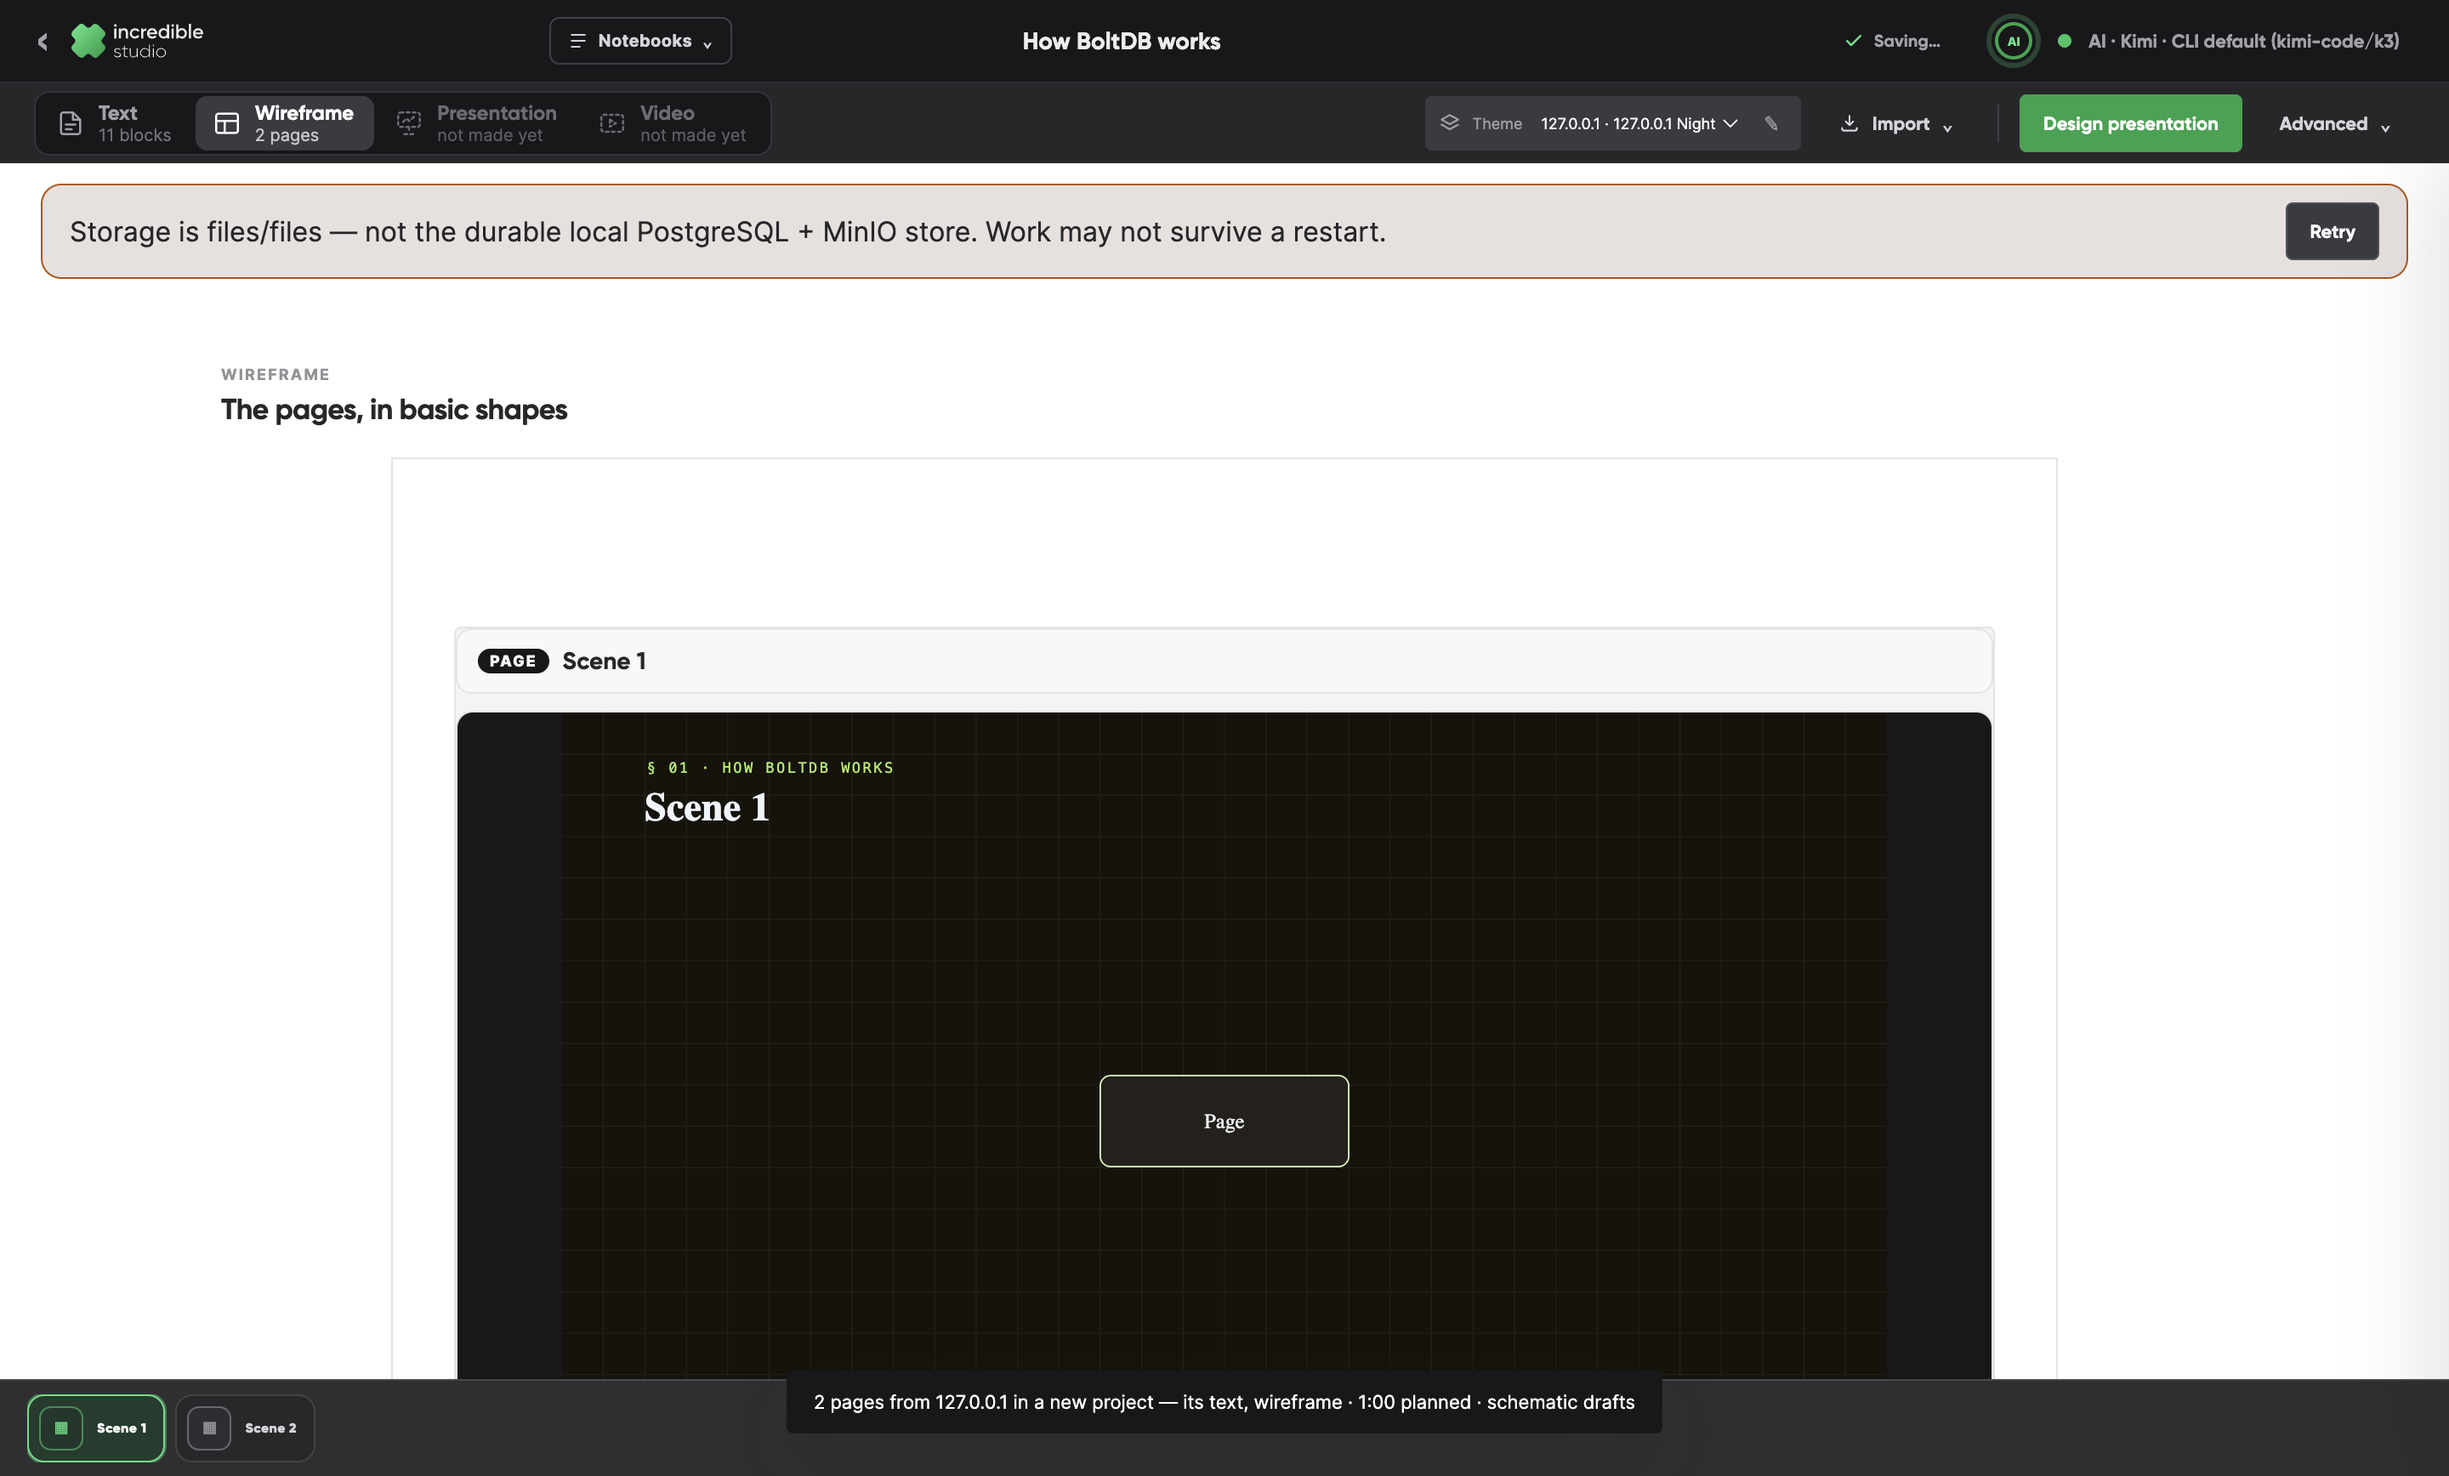
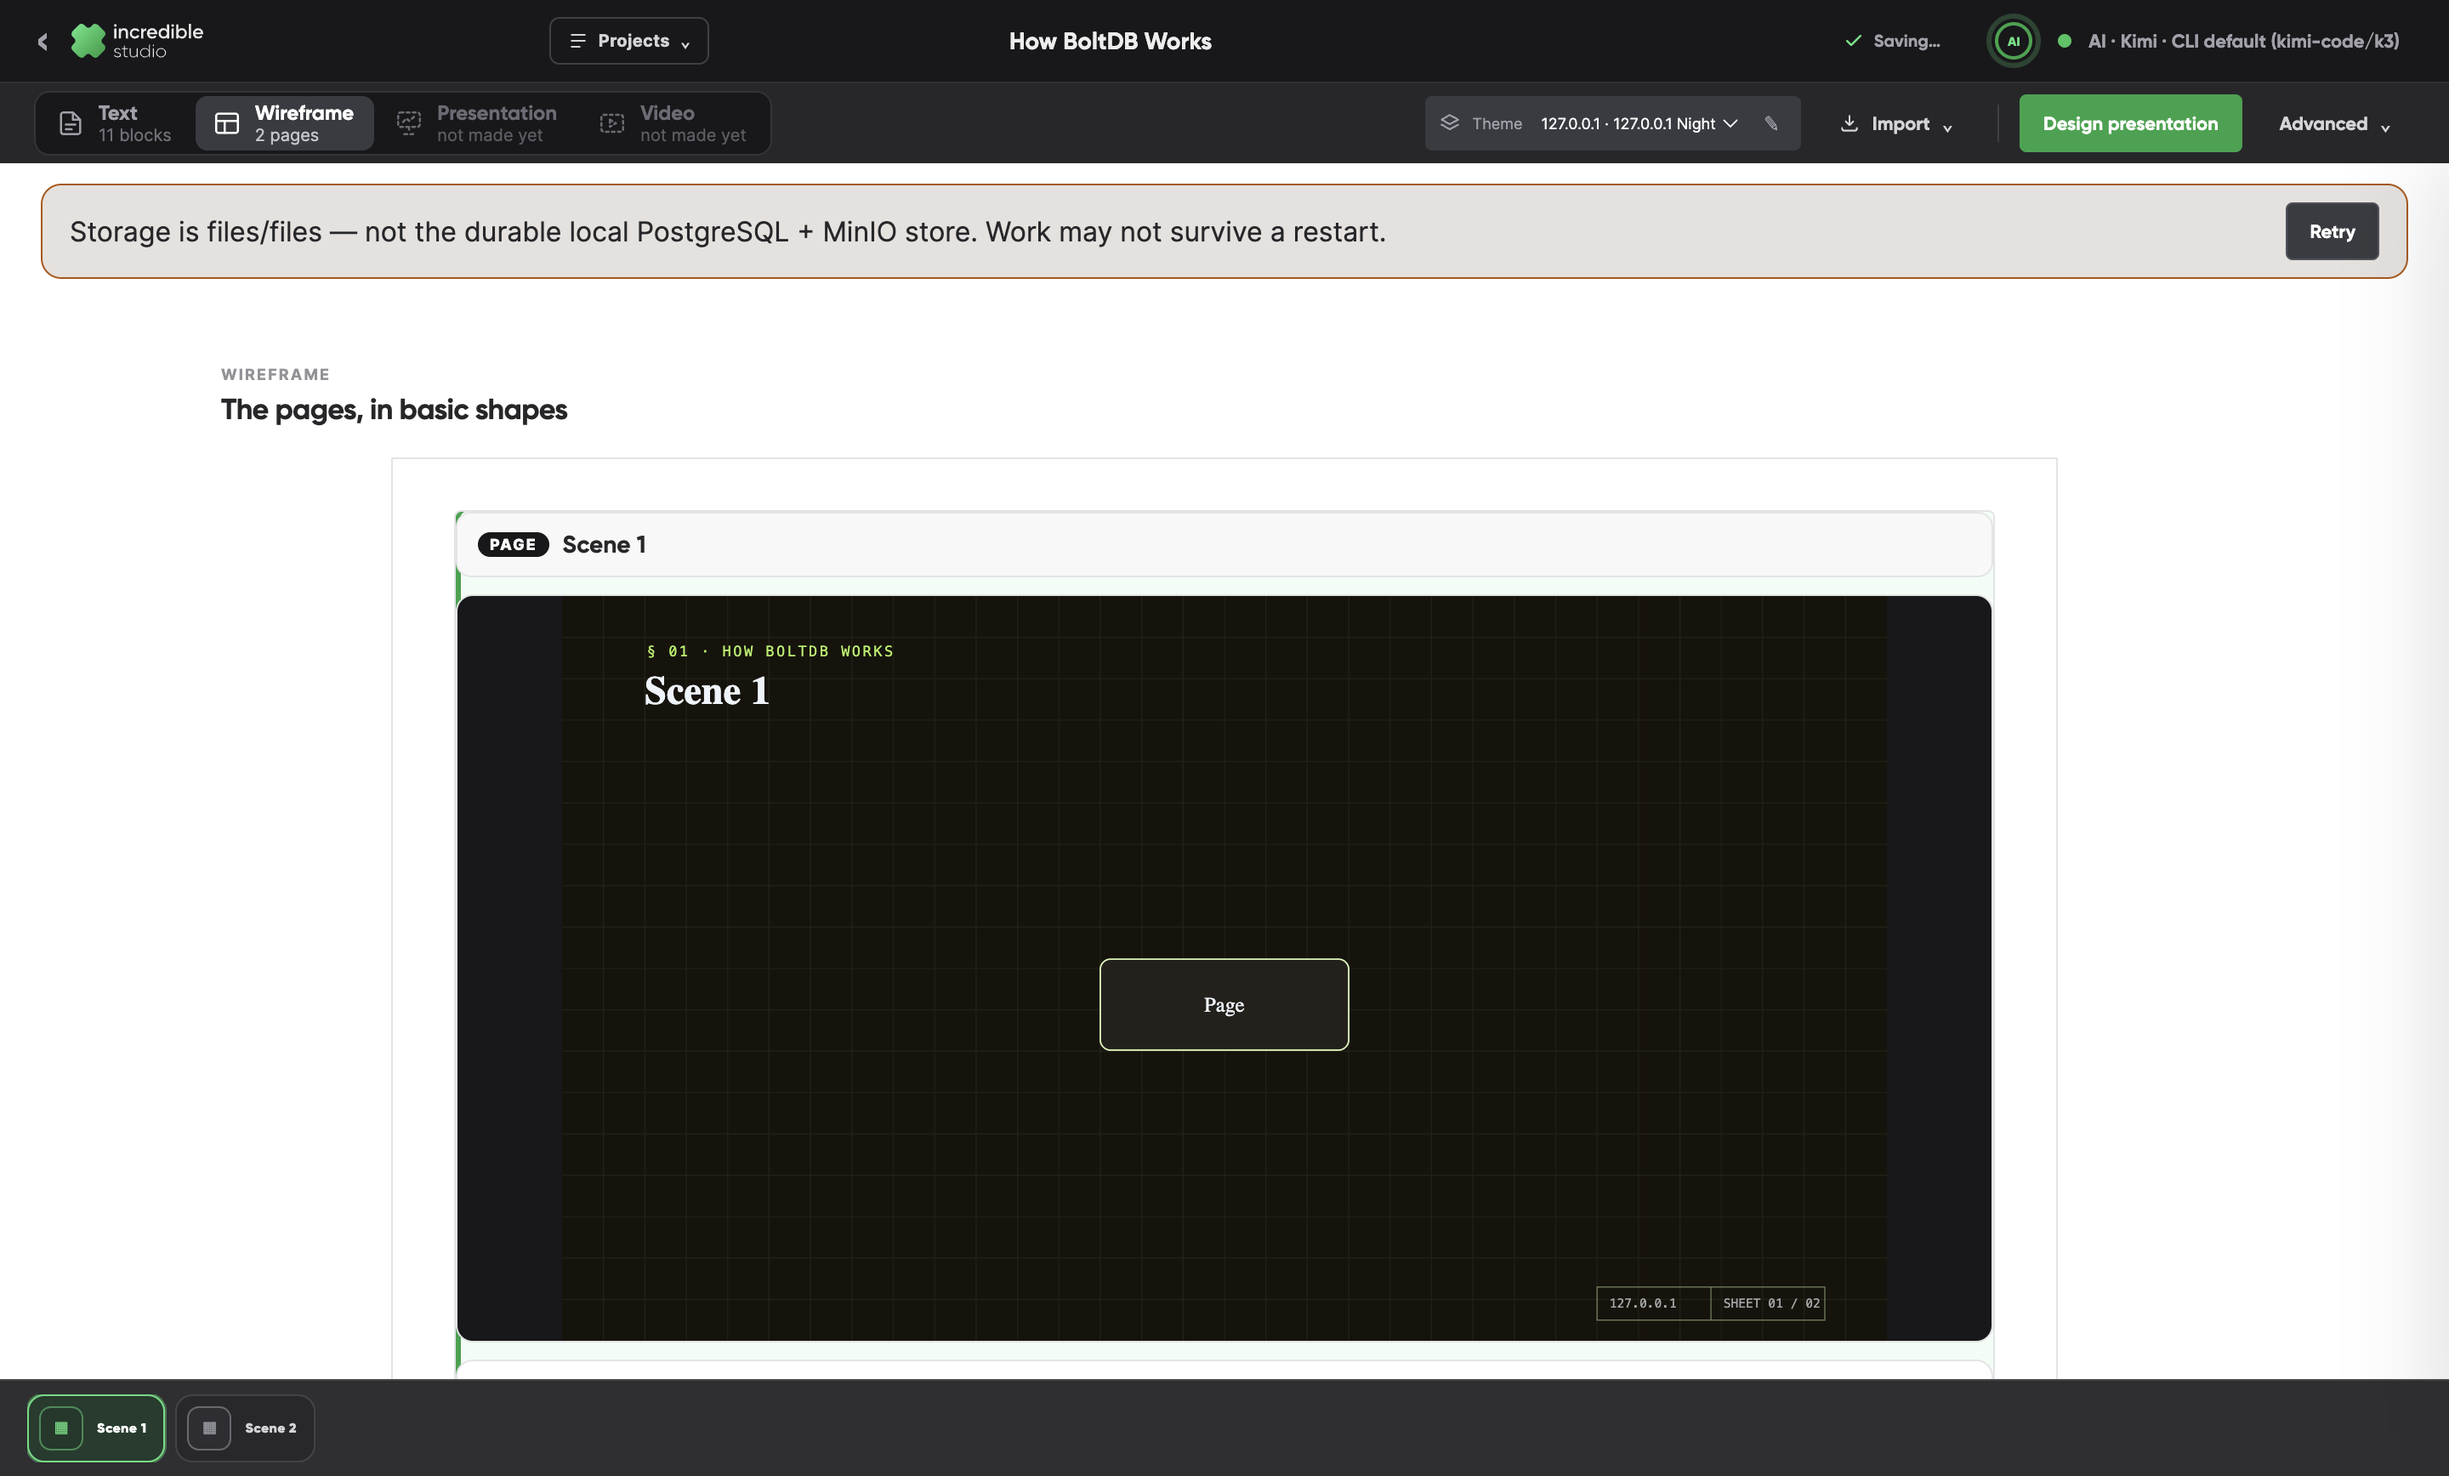
docs(reviews): the import opens the project at the brand
The BoltDB response now describes the short import: the project opens on
its text as soon as the brand is chosen, and its wireframe is made in the
background, saying so on its tab and in the notebook. B05 is answered by
it. The flow numbers of source-design-check follow its rewrite, and the
captures show the text while its wireframe is made, the wireframe, and a
presentation while it is designed and once it has landed.

diff --git a/docs/reviews/2026-09-26-boltdb-e2e-response.md b/docs/reviews/2026-09-26-boltdb-e2e-response.md
@@ -11,7 +11,7 @@ All thirteen findings are addressed on `claude/scene-review-loop`, one verified 
 
 After B04, the creator set the direction for the four-artifact proposal. A project is a container of notebooks — text, wireframe, presentation and video — each with its own tools and its own model, and an icon switch moves between them. That model is built and described below.
 
-B05 is fixed only in part, and the model has open work; both are listed under "Limits". Every proof below is a unit test or a scripted check in the desktop app, run on a throwaway store with stub harnesses. No page, plan, sketch or video was written by hand in a harness's place.
+B05's last piece and the model's open work are listed under "Limits". Every proof below is a unit test or a scripted check in the desktop app, run on a throwaway store with stub harnesses. No page, plan, sketch or video was written by hand in a harness's place.
 
 ## Findings
 
@@ -20,18 +20,18 @@ B05 is fixed only in part, and the model has open work; both are listed under "L
 | B10 | Export keeps the old slide clock and adds a blank tail | `d33d95fb` | `produced-scene.test.ts`; `production-check` (a produced scene exports at 10.400 s against its 10.394 s render) |
 | B09 | Publish from Scenes leaves a black stage and inaccessible controls | `b64a8c24` | `production-check`, `scene-review-check`, `export-check` (one scene exported from Scenes: 4.400 s against 4.394 s) |
 | B01 | Importing a new base leaves the previous video's workspace active | `38eb1486` | `source-destination-check`, flow D |
-| B06 | Finished rich slides do not reach the saved base while Video is open | `64fbe07e` | `page-landing.test.ts`; `source-design-check`, flows 7 and 8 (landing with only the video open, and after a restart) |
+| B06 | Finished rich slides do not reach the saved base while Video is open | `64fbe07e` | `page-landing.test.ts`; `source-design-check`, flows 4 and 5 (landing with only the video open, and after a restart) |
 | B02 | Source extraction loses tables and clips text diagrams | `a98d769b` | `server/source.test.ts`; `source-intake-check` (the BoltDB table and an 857-character diagram, whole, in the harness's inputs) |
 | B11 | The live stage and the MP4 use different typography | `c33b9e38` | `type-faces.test.ts`; `production-check` (a label drawn 725 px wide, 730 px on the stage, 912 px in the producer's Inter) |
 | B03 | Finishing a harness-made notebook requires a direct API | `98f3b551` | `source-intake-check` (no call to the direct writer, no provider prompt) |
-| B05 | Long processing stays in the wizard, then loses its progress detail | `5b7f8819` (part) | `planning-progress-check`, `source-design-check` |
+| B05 | Long processing stays in the wizard, then loses its progress detail | `5b7f8819`, `aef16caa` | `planning-progress-check`, `wireframe-build.test.ts`; `source-intake-check`, `source-design-check` |
 | B08 | The timeline hides the causal objects | `dbf090a6` | `scene-timeline-check` (nine layers, grouped by kind past six) |
 | Q02 | Spoken duration squeezes the teaching time | `f8f48646` | `voice.test.ts`, `take-clock.test.ts` |
 | B07 | A simplified source claim becomes an absolute claim | `a1356da6` | `claim-scope.test.ts`; `scene-review-check` |
 | Q01 | Capability decisions need settling before production | `e57280ab` | `type-faces.test.ts`; `production-check` |
-| — | Per-scene chaining | `00f0a22b` | `source-design-check`, flow 7 |
+| — | Per-scene chaining | `00f0a22b` | `source-design-check`, flow 4 |
 | B04 | The base shows the video workflow before a video exists | `c3087b42` | `source-intake-check` |
-| — | Four notebooks in one project | `d38e188a`, `8f3953cc`, `363d7fd6`, `c03bee58` | `containers.test.ts`, `presentation-export.test.ts`; `project-switch-check` (local store and Postgres); `source-intake-check`; `source-design-check`, flow 9 |
+| — | Four notebooks in one project | `d38e188a`, `8f3953cc`, `363d7fd6`, `c03bee58`, `aef16caa`, `9adc3a91` | `containers.test.ts`, `presentation-export.test.ts`, `wireframe-build.test.ts`; `project-switch-check` (local store and Postgres); `source-intake-check`; `source-design-check` |
 
 Two supporting commits: `f0bffb1f` brings `planning-check`'s expected tool list up to date, and `e8cee459` gives the app's own start-up check twenty seconds for harness detection. On a loaded machine, five seconds made `scene-review-check`'s restart fail with no reason given.
 
@@ -51,7 +51,7 @@ Two supporting commits: `f0bffb1f` brings `planning-check`'s expected tool list 
 
 **B03. A harness-made base is finished with that harness alone.** An outline the local harness wrote keeps its lines as the scenes' notes. Nothing is sent to a direct model, and no toast asks for a provider the creator did not need.
 
-**B05, in part. Long work says where it is.** A planning run reports reading its packet as a milestone. A page design run shows, in the notebook, how far it is and for how long it has worked. The review's larger fix is still open (see "Limits"): save the project when the brand is confirmed, and show the phases in the destination workspace.
+**B05. Long work says where it is, and nothing waits in the dialog.** A planning run reports reading its packet as a milestone. A page design run shows, in the notebook, how far it is and for how long it has worked. The review's larger fix is built too: the import now opens the project at the brand, and its wireframe is made in the background (below).
 
 **B08. Every layer of a scene is in its timeline.** Past six layers they are grouped by kind, each group expandable. The choice is kept, and each bar seeks to its moment.
 
@@ -106,16 +106,28 @@ No notebook but the video shows staging or Publish.
 ![Presentation, just exported](2026-09-26-boltdb-e2e-response-evidence/projects-3-presentation-export.png)
 ![Video](2026-09-26-boltdb-e2e-response-evidence/projects-4-video.png)
 
-**An import makes a project** (`8f3953cc`):
+**The import opens the project at the brand** (the short import, the review's step 3). You no longer wait in the dialog while the article is outlined:
+
+- The dialog is two steps, Read and Brand. Confirming the brand creates the project and opens the studio on its **Text** notebook at once, with the article as read.
+- The **Wireframe** is made in the background:
+  - The story run starts on your harness when the brand is confirmed. The server draws a schematic page for each scene of its outline and saves the pages into the Wireframe notebook (`server/wireframe-build.ts`, one pass every few seconds).
+  - It goes on whichever notebook is open, and after a restart.
+  - Its tab reads "being made", then "N pages".
+  - Opened while it is being made, the Wireframe says who is making it, for how long, and the harness's latest word, and it can be stopped.
+  - If it cannot be made, it says why and offers to make it again.
+- The dialog's Outline and Pages steps are gone, with their code. The outline becomes the Wireframe's pages, and designing is the Wireframe's own action.
+
+![The BoltDB import: its text open at once, its wireframe being made](2026-09-26-boltdb-e2e-response-evidence/import-1-text-while-the-wireframe-is-made.png)
+
+**How the notebooks are made from each other** (`8f3953cc`):
 
 - **Text.** The article as read becomes a text notebook: headings, prose, lists and code, with each table kept whole as a fenced block.
-- **Wireframe.** The pages keep their schematics, each with its idea, notes and sources.
-- **Presentation.** When the pages are being designed, the presentation holds the same pages with the same ids, each bound to the run's page, and the designed slides land there.
-- **Opening.** The import opens on the presentation, or on the wireframe if nothing is being designed.
-- **Design presentation.** A wireframe with no presentation offers Design presentation. The drawing harness draws its pages, in their current order and words, into a new presentation notebook. The wireframe keeps its schematics.
+- **Wireframe.** Its pages are schematics, each with its idea, notes and verbatim source passages. It keeps the outline as its plan: each page's line, parts and relations, the model's objects, and the brand it is drawn in.
+- **Design presentation.** A wireframe with no presentation offers Design presentation. The drawing harness draws its pages, in their current order and words, into a new presentation notebook with the same page ids, each bound to the run's page. The designed slides land there as they are finished, and the wireframe keeps its schematics.
 
 ![A wireframe offers to design its presentation](2026-09-26-boltdb-e2e-response-evidence/design-1-wireframe-offers-design.png)
-![The designed slides landed in the presentation](2026-09-26-boltdb-e2e-response-evidence/design-2-presentation-landed.png)
+![The presentation while its second slide is being designed](2026-09-26-boltdb-e2e-response-evidence/design-2-presentation-designing.png)
+![The designed slides landed in the presentation](2026-09-26-boltdb-e2e-response-evidence/design-3-presentation-landed.png)
 
 **The presentation's own export** (`363d7fd6`). Export PDF prints the slides in order, one page per slide at the notebook's frame size. It uses the renderer's Chrome, with the renderer's type faces embedded. The PDF is kept in the object store and downloaded.
 
@@ -136,12 +148,27 @@ No notebook but the video shows staging or Publish.
 5. It reads the project in the menu and the library.
 6. It removes the project with its notebooks.
 
-`source-intake-check` checks what the BoltDB import makes. `source-design-check`, flow 9, designs a presentation from a wireframe.
+`source-intake-check` runs the BoltDB import:
+
+1. The project opens on its text, the article whole.
+2. The story run is given the table and the diagrams.
+3. The wireframe's tab says it is being made, then "2 pages".
+4. Opened from the switch, its pages show no video controls.
+
+`source-design-check` runs the import through to the video:
+
+1. It designs a presentation from the wireframe; the slides land, and a video offered meanwhile offers to wait.
+2. It stops remaining work.
+3. A video takes its slide by itself as the slide lands.
+4. After a restart, the slide the run left lands.
+
+`wireframe-build.test.ts` covers the background build: waiting, drawing, failing, the direct model, and an edit made while it builds.
 
 ## Limits
 
-- **B05 is fixed in part.** Import is still a wizard: read, brand, outline, pages, then the project opens. The review's short import (link → brand → saved project, with the outline streaming into the wireframe) is the next step for the model.
+- **B05.** The short import is now built: nothing waits in the dialog after the brand. What is still open from B05 is streaming the wireframe's pages one by one as the outline is written; they land together, when the story run is done.
 - **No update prompts yet.** A notebook records what it was made from, but an edit upstream does not yet offer an update to the notebooks made from it (the review's step 6). Remaking the wireframe from an edited text, approving pages one by one before designing, PPTX export and library thumbnails are not built.
+- **The live proof scripts.** `live-workspace-run.mjs` and `live-review-loop.mjs` still drive the dialog's old Outline and Pages steps. They spend model budget and are not in the suite; they will follow the new import at the next live run.
 - **No migration.** Notebooks made before projects are not moved into projects; the creator asked to start over. They still open, listed as notebooks outside a project.
 - **Pages without the video's staging, in older notebooks.** A standalone base made from a source still hides the staging. Advanced › Show video staging brings it back there, the older way.
 
